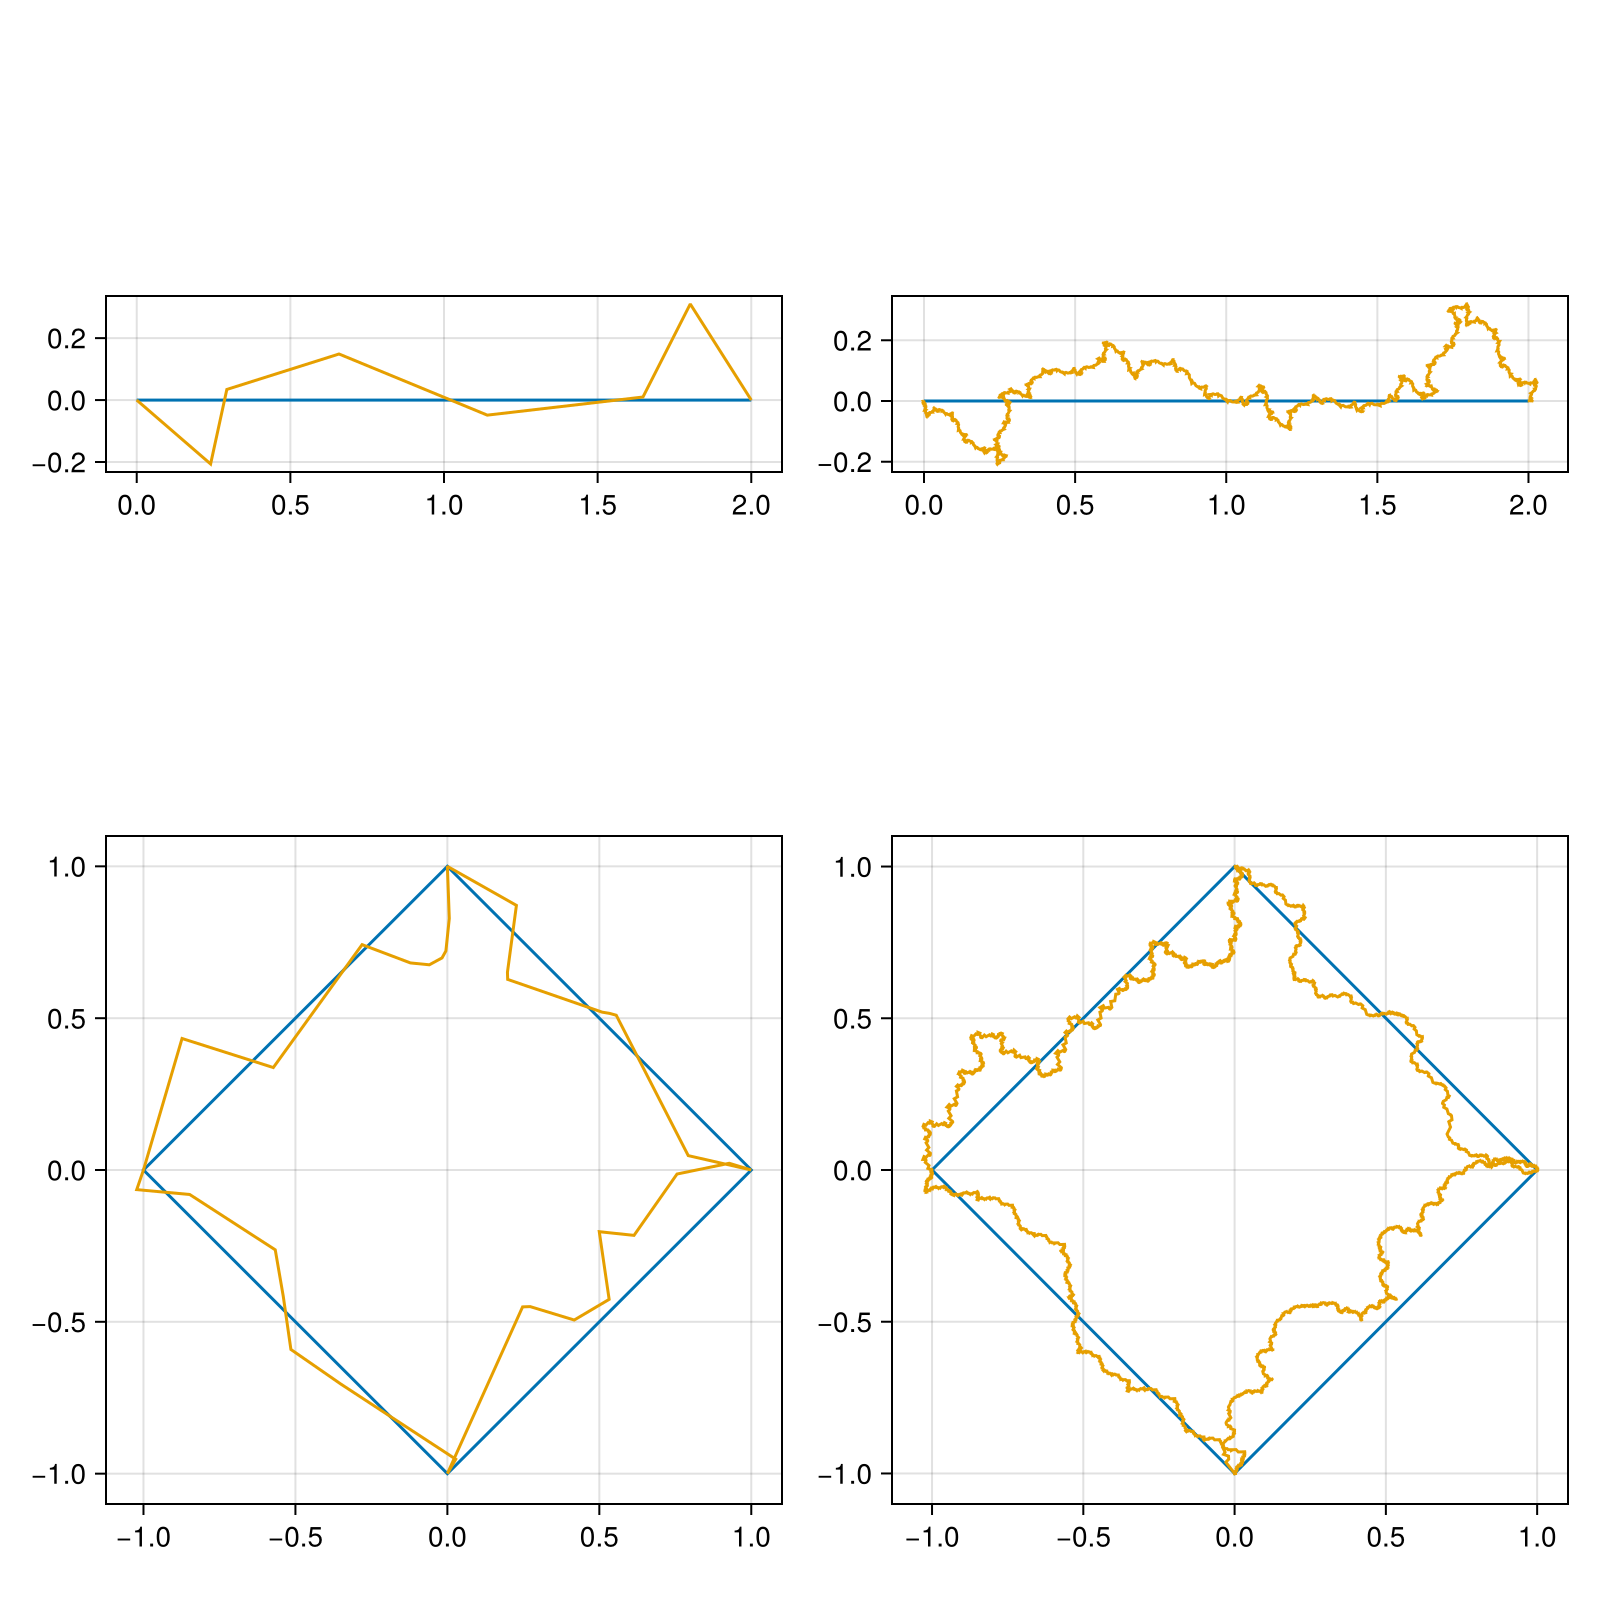
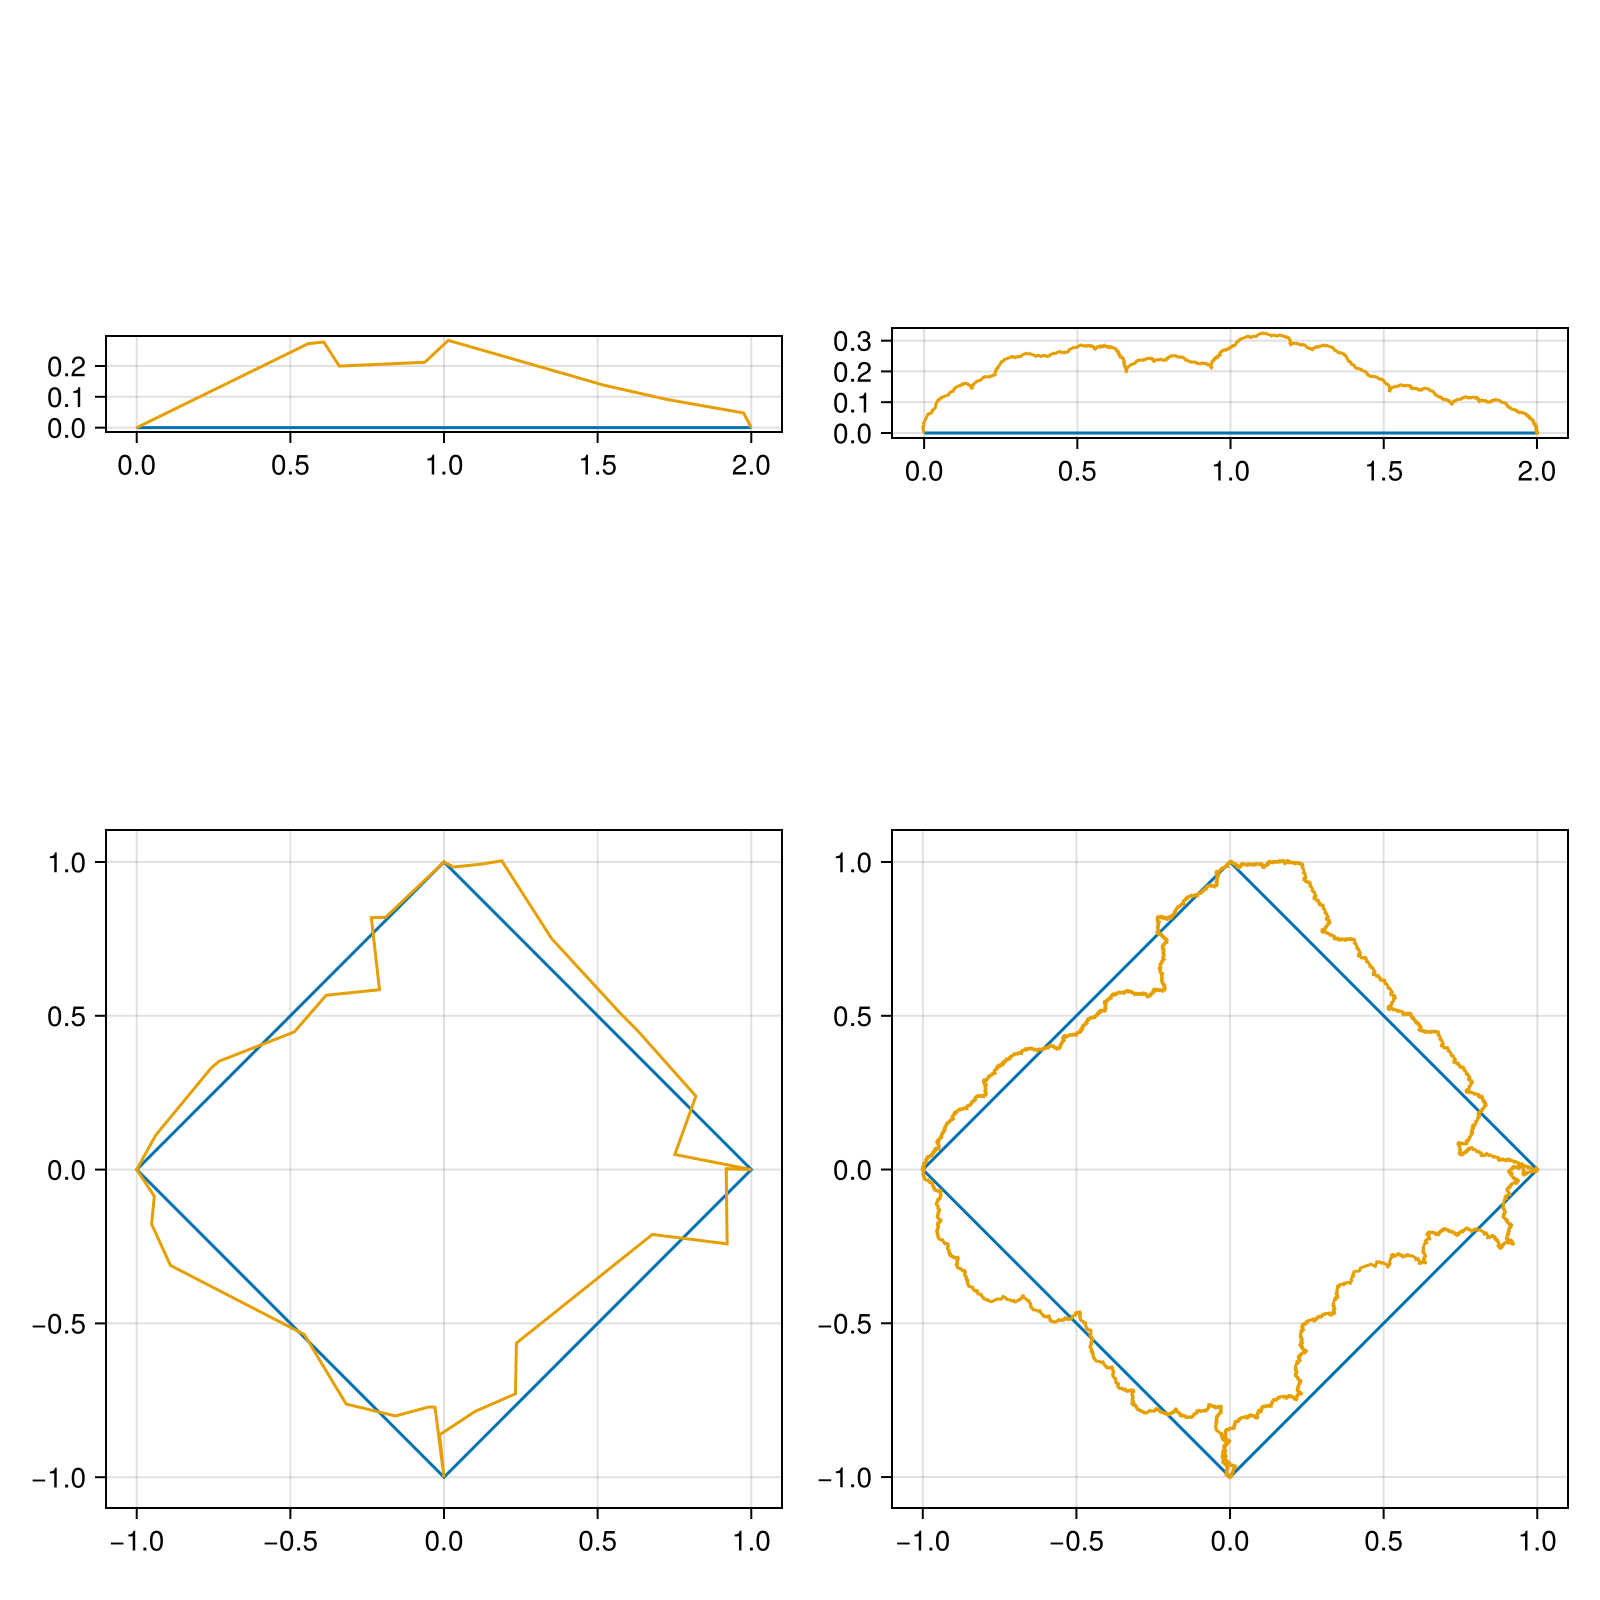
Doc update and major version!

diff --git a/docs/src/index.md b/docs/src/index.md
@@ -18,25 +18,35 @@ or
 
 Here is a basic example to reproduce the fractal in the logo
 
-```julia 
+```@example 
+using CairoMakie #hide
 using Fractalizer
 
-template_points = [[0., 0.] 
-                   [1.0,1.0] 
-                   [3.2, 1.0] 
-                   [4.2, -0.5] 
-                   [4.5, -0.9] 
-                   [7.4, -1.2] 
-                   [8,-0.7] 
-                   [8.8,0.0] 
-                   [9.0, 0.5]
+template_points = [[0., 0.];;
+                   [1.0, 1.0];;
+                   [3.2, 1.0];;
+                   [4.2, -0.5];;
+                   [4.5, -0.9];;
+                   [7.4, -1.2];;
+                   [8,-0.7];;
+                   [8.8,0.0];;
+                   [9.0, 0.5];;
                    [9.6, 0.3]]'
 
 template = Template(template_points)
-shape = MakeRing(0.,0.,sqrt(1),5)
+shape = MakeRing(0.,0.,sqrt(1),7)
 
-fractal = fractalize(shape, template, 4)
+fractal = fractalize(shape, template, 3)
+shape = shape * R(-7)
+
+fig = Figure(size=(800,800))#hide
+ax = Axis(fig[1,1], aspect=DataAspect())#hide
+lines!(ax, shape.xs, shape.ys)#hide
+lines!(ax, fractal.xs, fractal.ys)#hide
+
+save("../src/assets/examples/logo.png", fig); nothing #hide
 ```
+![](assets/examples/logo.png)
 
 Easy as that!!
 For more examples and information please consult the [Examples](@ref examples) page.
